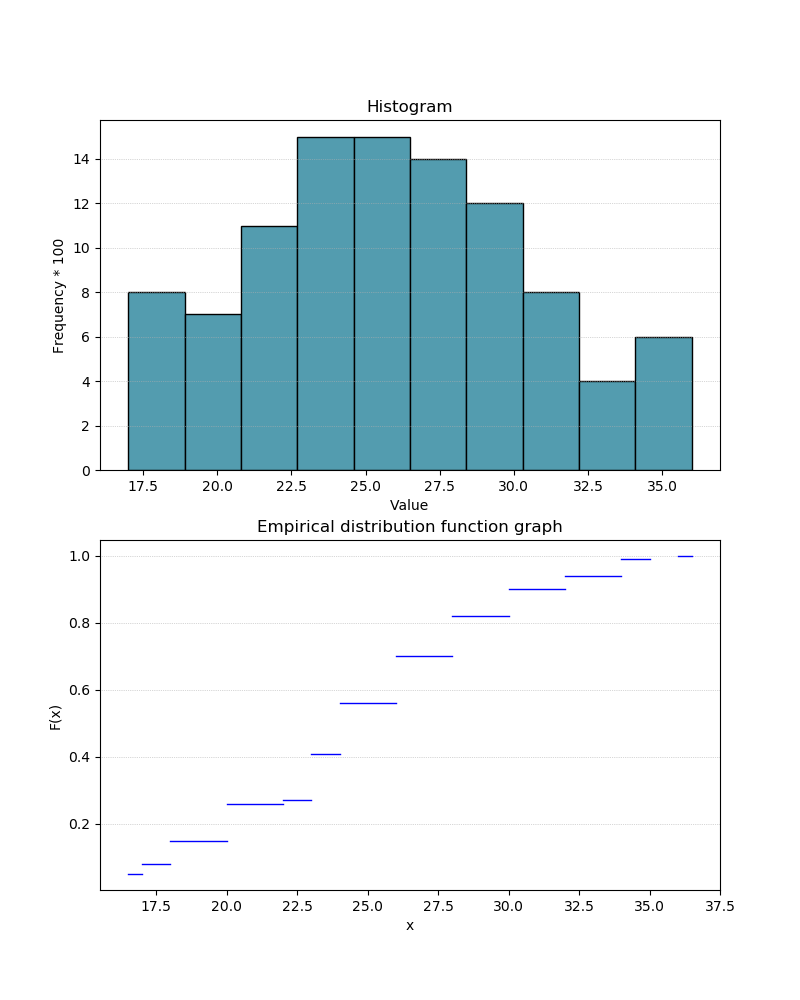
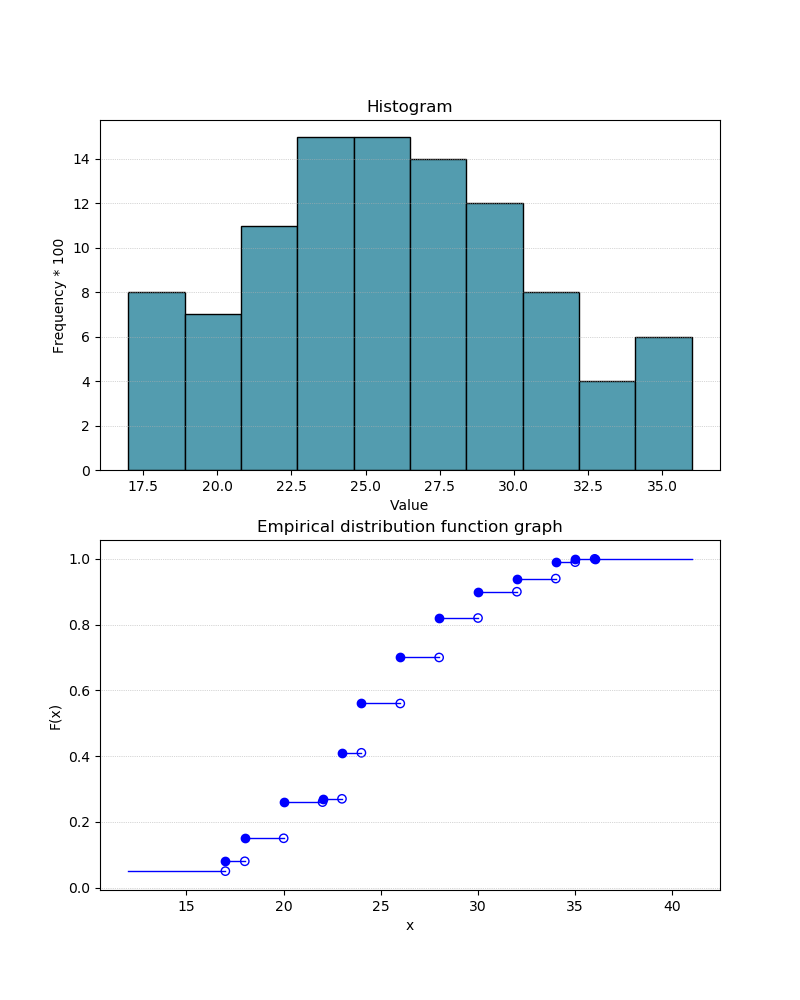
Added points on graphic

diff --git a/Lab1/main.py b/Lab1/main.py
@@ -1,10 +1,8 @@
-import random
 import time
-import numpy as np
-import matplotlib as mpl
-import matplotlib.pyplot as plt
 import pandas as pd
-#import statistics as st
+import matplotlib.pyplot as plt
+import numpy as np
+
 from statistics import Statistics
 
 
@@ -41,20 +39,34 @@ def build_graphics(data, n_bins=10):
         value.append(x)
         count.append(np.count_nonzero(np.less_equal(data, x) == True))
 
-    first_last = 0.5  # для первой и последней линии
-    for i in range(len(value)):
+    x_points = []
+    y_points = []
+    first_last = 5  # для первой и последней линии
+    for i in range(len(value) + 1):
         if i == 0:
             x = np.linspace(value[i] - first_last, value[i], 2)
-        elif i == len(value) - 1:
-            x = np.linspace(value[i], value[i] + first_last, 2)
+            y = [count[i] / len(data), count[i] / len(data)]
+            x_points.append(value[i])
+            y_points.append(count[i] / len(data))
+        elif i == len(value):
+            x = np.linspace(value[-1], value[-1] + first_last, 2)
+            y = [count[-1] / len(data), count[-1] / len(data)]
+            plt.plot([value[-1]], [count[-1] / len(data)], 'ro', color='blue')
         else:
             x = np.linspace(value[i - 1], value[i], 2)
-        y = [count[i] / len(data), count[i] / len(data)]
+            y = [count[i] / len(data), count[i] / len(data)]
+            x_points.append(value[i])
+            y_points.append(count[i] / len(data))
+            plt.plot([value[i - 1]], [count[i] / len(data)], 'ro', color='blue')
         ax2.plot(
             x, y,
             linewidth=1,
             color='blue'
         )
+
+    df = pd.DataFrame({'x': np.array(x_points),
+                       'y': np.array(y_points)})
+    ax2.scatter(df.x.values, df.y.values, facecolors='none', edgecolors='blue')
     # levels = np.linspace(0, 1, len(data) + 1)  # endpoint 1 is included by default
     # ax2.step(sorted(list(data) + [max(data)]), levels)
     # plt.show()
@@ -64,6 +76,7 @@ def build_graphics(data, n_bins=10):
 def main():
     stat = Statistics()
     stat.load_data("data.txt")
+    print(stat.get_data())
 
     build_graphics(stat.get_data())
     print("Среднее значение выборки: ", stat.find_average_sample_value())
@@ -72,17 +85,12 @@ def main():
     print("Мода: ", stat.find_mode())
     print("Медиана: ", stat.find_median())
     print("Квартили: ", (stat.find_quartiles()))
-    #print("Квартили: ", (stat.find_quartiles()))
+    # print("Квартили: ", (stat.find_quartiles()))
     print("Стандартное отклонени: ", (stat.find_standard_deviation()))
     print("Эксцесс: ", (stat.find_kurtosis()))
     print("Асимметричность: ", (stat.find_skewness()))
     print("Минимум: ", (stat.find_min()))
     print("Максимум: ", (stat.find_max()))
-
-
-
-
-
 
 
 if __name__ == '__main__':
